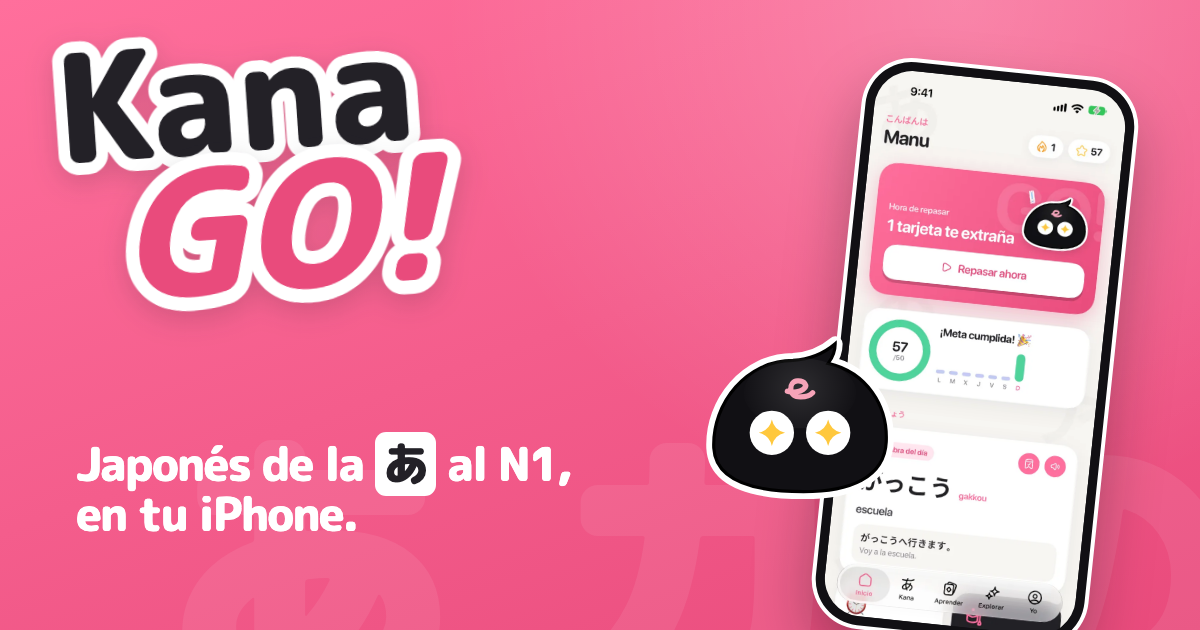
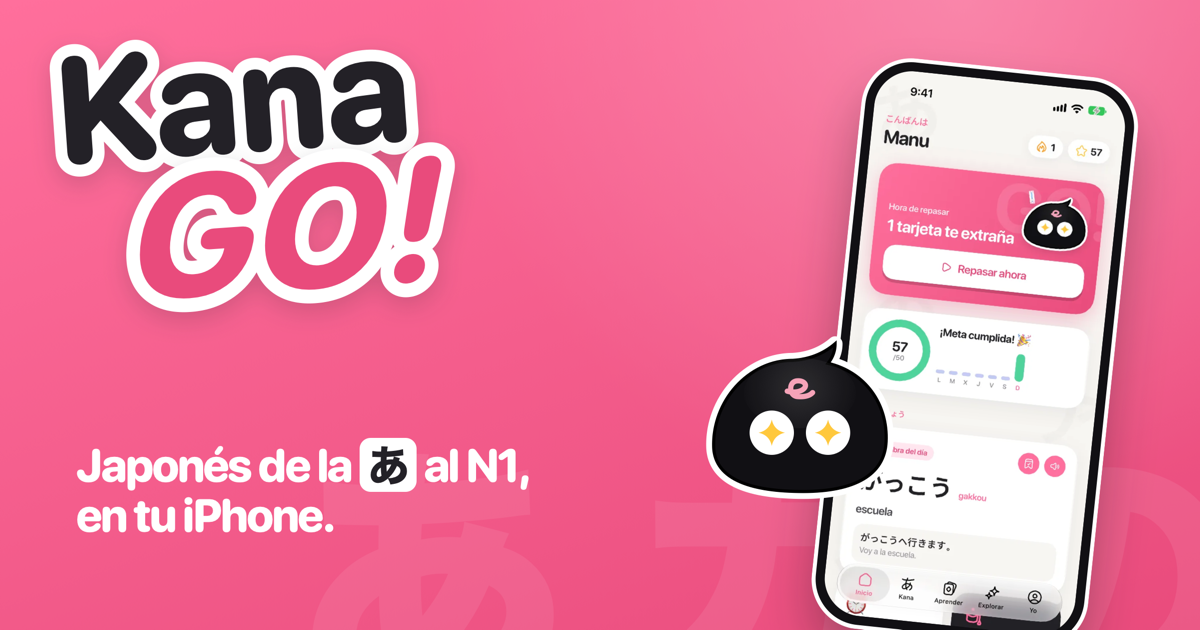
style: use SF Pro Rounded and SF Pro Text like the app
Headings use ui-rounded (SF Pro Rounded) and body copy uses -apple-system
(SF Pro Text), the same faces as the iOS app. SF Pro can't be self-hosted
under Apple's license, so other platforms fall back to their system UI
font. Drops Google Fonts (and the privacy note about it) and re-renders
the OG image with WebKit.

diff --git a/app/privacy.html b/app/privacy.html
@@ -9,9 +9,6 @@
   <link rel="canonical" href="https://hinomaru.vercel.app/privacy">
   <link rel="icon" type="image/png" href="/assets/favicon-64.png">
   <link rel="apple-touch-icon" href="/apple-touch-icon.png">
-  <link rel="preconnect" href="https://fonts.googleapis.com">
-  <link rel="preconnect" href="https://fonts.gstatic.com" crossorigin>
-  <link rel="stylesheet" href="https://fonts.googleapis.com/css2?family=M+PLUS+Rounded+1c:wght@700;800&family=Nunito:wght@500;700;800&display=swap">
   <link rel="stylesheet" href="/assets/styles.css">
 </head>
 <body data-page="doc">
@@ -50,7 +47,7 @@
         <p>Al abrir una canción, la app carga el video desde YouTube (Google). YouTube puede recoger datos según la <a href="https://policies.google.com/privacy" rel="noopener">política de privacidad de Google</a>. El resto de la app funciona sin conexión.</p>
 
         <h2>Este sitio web</h2>
-        <p>Este sitio está alojado en Vercel, que puede registrar datos técnicos (como la dirección IP) por seguridad y funcionamiento. No usamos cookies ni analítica; tu idioma elegido se guarda en el almacenamiento local de tu navegador. Las fuentes se cargan desde Google Fonts.</p>
+        <p>Este sitio está alojado en Vercel, que puede registrar datos técnicos (como la dirección IP) por seguridad y funcionamiento. No usamos cookies ni analítica; tu idioma elegido se guarda en el almacenamiento local de tu navegador.</p>
 
         <h2>Menores</h2>
         <p>KanaGO! es apta para todas las edades y no recoge datos de nadie, incluidos menores.</p>
@@ -75,7 +72,7 @@
         <p>When you open a song, the app loads the video from YouTube (Google). YouTube may collect data under <a href="https://policies.google.com/privacy" rel="noopener">Google's privacy policy</a>. Everything else works offline.</p>
 
         <h2>This website</h2>
-        <p>This site is hosted on Vercel, which may log technical data (such as IP addresses) for security and operation. We use no cookies and no analytics; your language choice is kept in your browser's local storage. Fonts load from Google Fonts.</p>
+        <p>This site is hosted on Vercel, which may log technical data (such as IP addresses) for security and operation. We use no cookies and no analytics; your language choice is kept in your browser's local storage.</p>
 
         <h2>Children</h2>
         <p>KanaGO! is suitable for all ages and collects no data from anyone, including children.</p>

diff --git a/app/assets/styles.css b/app/assets/styles.css
@@ -20,9 +20,12 @@
   --lilac: #a48bf0;
   --swirl: #f6a3b8;
 
-  --display: ui-rounded, "M PLUS Rounded 1c", "Hiragino Maru Gothic ProN", system-ui, sans-serif;
-  --body: "Nunito", ui-rounded, system-ui, -apple-system, "Segoe UI", sans-serif;
-  --jp: "M PLUS Rounded 1c", "Hiragino Maru Gothic ProN", sans-serif;
+  /* Same faces as the app: SF Pro Rounded for the KanaGO! voice, SF Pro Text for body copy.
+     SF Pro can't be self-hosted (Apple's license), so these are the system keywords that
+     resolve to it on Apple devices; other platforms get their own system UI font. */
+  --display: ui-rounded, "SF Pro Rounded", -apple-system, BlinkMacSystemFont, system-ui, "Segoe UI", Roboto, sans-serif;
+  --body: -apple-system, BlinkMacSystemFont, "SF Pro Text", system-ui, "Segoe UI", Roboto, "Helvetica Neue", sans-serif;
+  --jp: -apple-system, "Hiragino Sans", "Hiragino Kaku Gothic ProN", "Noto Sans JP", "Yu Gothic UI", Meiryo, sans-serif;
 
   --shadow: 0 10px 28px rgba(35, 33, 39, 0.08);
   --gutter: clamp(16px, 4vw, 40px);
@@ -35,7 +38,8 @@ body {
   margin: 0;
   background: var(--cream);
   color: var(--ink);
-  font: 500 17px/1.6 var(--body);
+  font: 400 17px/1.6 var(--body);
+  letter-spacing: -0.01em;
   overflow-x: hidden;
 }
 img { max-width: 100%; display: block; }

diff --git a/app/index.html b/app/index.html
@@ -18,9 +18,6 @@
   <meta property="og:image:width" content="1200">
   <meta property="og:image:height" content="630">
   <meta name="twitter:card" content="summary_large_image">
-  <link rel="preconnect" href="https://fonts.googleapis.com">
-  <link rel="preconnect" href="https://fonts.gstatic.com" crossorigin>
-  <link rel="stylesheet" href="https://fonts.googleapis.com/css2?family=M+PLUS+Rounded+1c:wght@500;700;800;900&family=Nunito:wght@500;600;700;800&display=swap">
   <link rel="stylesheet" href="/assets/styles.css">
   <script type="application/ld+json">
   {"@context":"https://schema.org","@type":"MobileApplication","name":"KanaGO!","operatingSystem":"iOS 17+","applicationCategory":"EducationalApplication","inLanguage":["es","en","ja"],"description":"Aprende japonés de kana a JLPT N1 con una ruta guiada, tarjetas con repaso espaciado, simulacros JLPT, historias, karaoke y conversaciones.","url":"https://hinomaru.vercel.app/","author":{"@type":"Person","name":"Manuekle","url":"https://github.com/Manuekle"}}

diff --git a/app/404.html b/app/404.html
@@ -7,9 +7,6 @@
   <meta name="robots" content="noindex">
   <meta name="theme-color" content="#ff6f9c">
   <link rel="icon" type="image/png" href="/assets/favicon-64.png">
-  <link rel="preconnect" href="https://fonts.googleapis.com">
-  <link rel="preconnect" href="https://fonts.gstatic.com" crossorigin>
-  <link rel="stylesheet" href="https://fonts.googleapis.com/css2?family=M+PLUS+Rounded+1c:wght@700;800&family=Nunito:wght@500;700;800&display=swap">
   <link rel="stylesheet" href="/assets/styles.css">
 </head>
 <body data-page="doc" style="min-height:100vh;display:grid;place-items:center;background:linear-gradient(160deg,var(--pink),var(--pink-deep));color:#fff;text-align:center">

diff --git a/app/support.html b/app/support.html
@@ -9,9 +9,6 @@
   <link rel="canonical" href="https://hinomaru.vercel.app/support">
   <link rel="icon" type="image/png" href="/assets/favicon-64.png">
   <link rel="apple-touch-icon" href="/apple-touch-icon.png">
-  <link rel="preconnect" href="https://fonts.googleapis.com">
-  <link rel="preconnect" href="https://fonts.gstatic.com" crossorigin>
-  <link rel="stylesheet" href="https://fonts.googleapis.com/css2?family=M+PLUS+Rounded+1c:wght@700;800&family=Nunito:wght@500;700;800&display=swap">
   <link rel="stylesheet" href="/assets/styles.css">
 </head>
 <body data-page="doc">

diff --git a/app/terms.html b/app/terms.html
@@ -9,9 +9,6 @@
   <link rel="canonical" href="https://hinomaru.vercel.app/terms">
   <link rel="icon" type="image/png" href="/assets/favicon-64.png">
   <link rel="apple-touch-icon" href="/apple-touch-icon.png">
-  <link rel="preconnect" href="https://fonts.googleapis.com">
-  <link rel="preconnect" href="https://fonts.gstatic.com" crossorigin>
-  <link rel="stylesheet" href="https://fonts.googleapis.com/css2?family=M+PLUS+Rounded+1c:wght@700;800&family=Nunito:wght@500;700;800&display=swap">
   <link rel="stylesheet" href="/assets/styles.css">
 </head>
 <body data-page="doc">

diff --git a/README.md b/README.md
@@ -22,6 +22,8 @@ app/                 raíz del proyecto en Vercel (Root Directory = app)
 
 Sitio estático: HTML, CSS y un JS pequeño, sin build ni dependencias.
 
+- **Tipografía:** la misma de la app, SF Pro Rounded (títulos) y SF Pro Text (texto), vía las fuentes del sistema (`ui-rounded`, `-apple-system`). La licencia de Apple no permite alojar SF Pro en la web, así que fuera de Apple se ve la fuente del sistema.
+
 - **Idioma:** español por defecto; el botón ES/EN cambia los textos marcados con `data-i18n` (diccionario en `assets/site.js`) y los bloques `data-lang` de las páginas legales.
 - **App Store:** cuando la app esté publicada, pon el enlace en `APP_STORE_URL` dentro de `assets/site.js`; los botones pasan de “Muy pronto” a “Descargar”.
 - **Rutas viejas** de Hinomaru (`/login`, `/deck/…`, `/jlpt/…`, etc.) redirigen a la portada; `/contact` va a `/support`.
